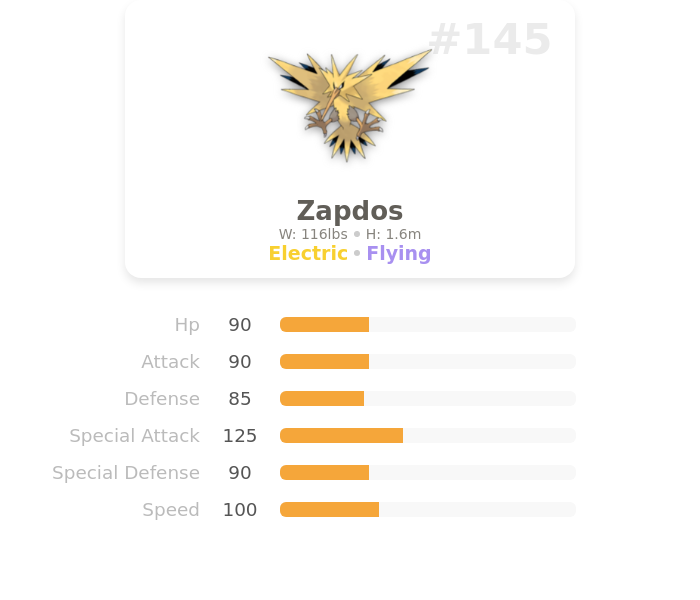
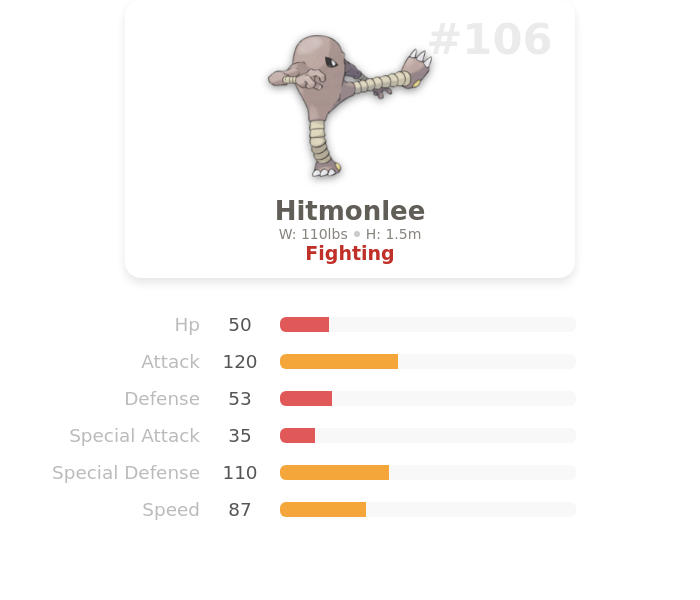
Update README

diff --git a/README.md b/README.md
@@ -1,5 +1,5 @@
 <h4 style="margin-top: 0; margin-bottom: 0;">It's nice to meet you!</h4>
   <p>Look. Is this your favorite pokemon?</p>
-  <a href="https://poke-client.vercel.app/pokemon/zapdos" target="_blank">
+  <a href="https://poke-client.vercel.app/pokemon/hitmonlee" target="_blank">
     <img src="pokemon.png" alt="pokemon">
   </a>
